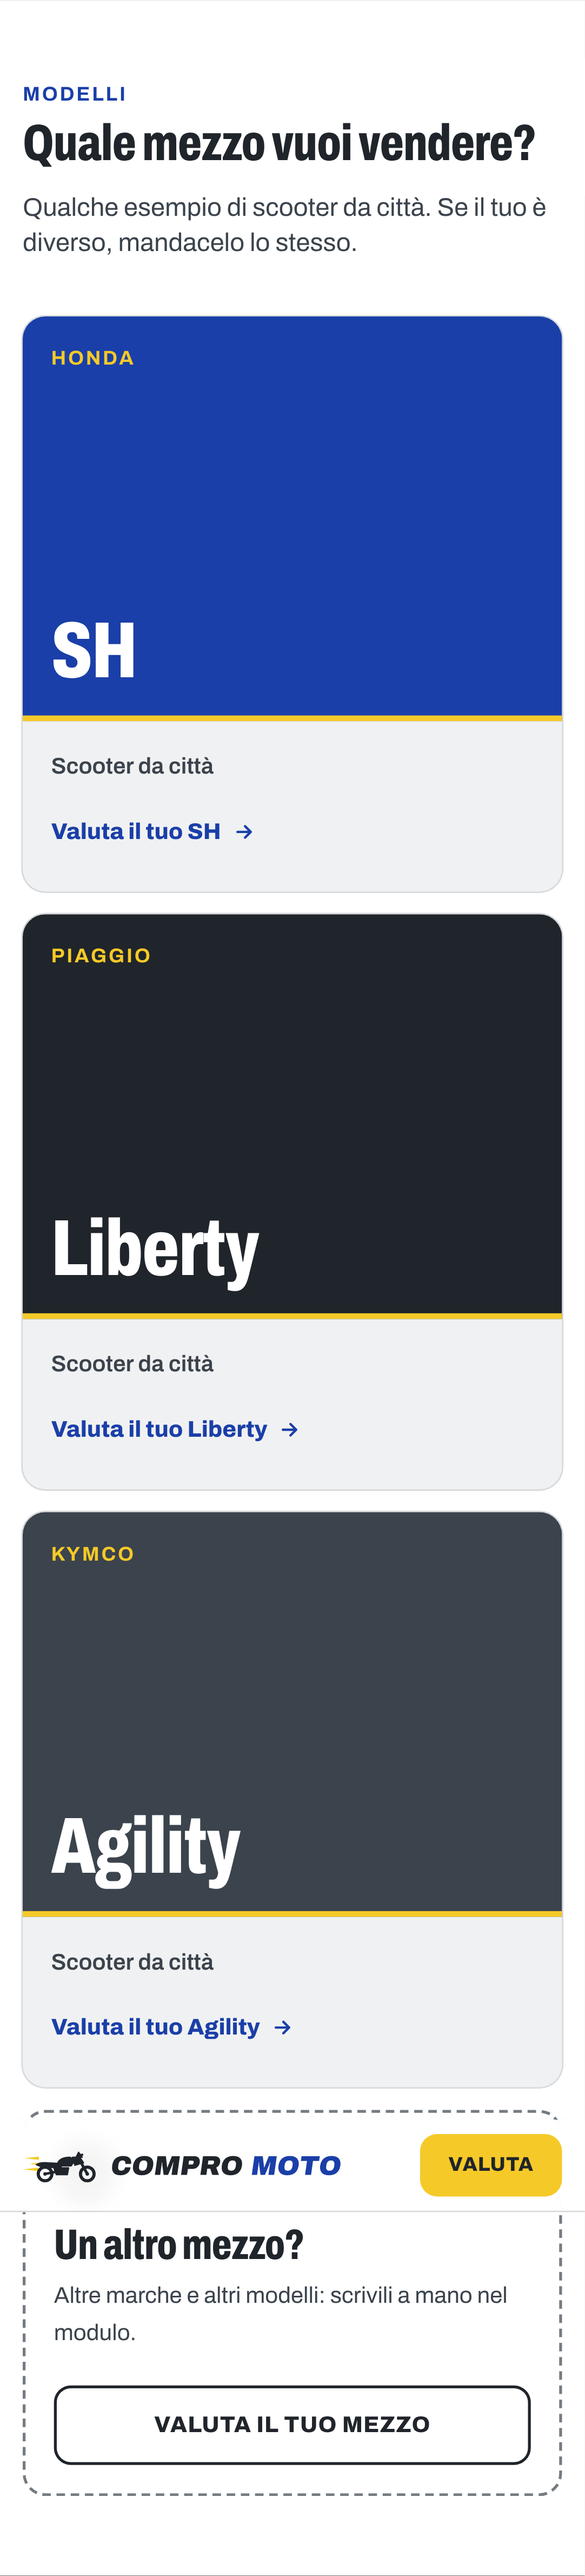
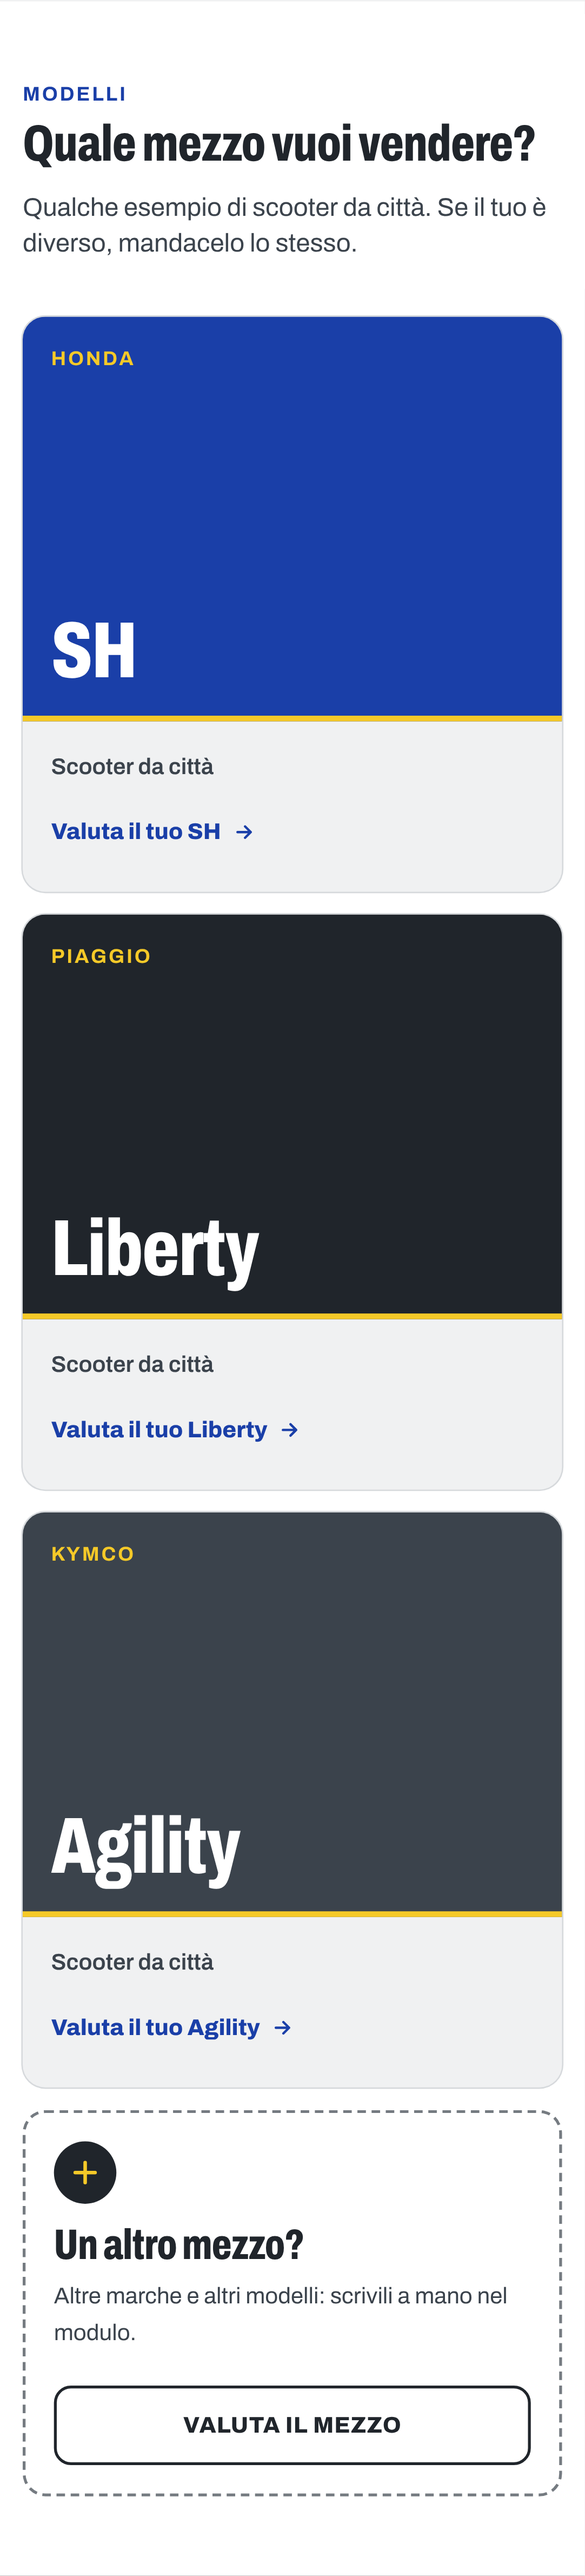
fix(ui): focus del campo km visibile su bianco, bottone «Altro mezzo» su una riga; anteprime 01-09 aggiornate
Claude-Session: https://claude.ai/code/session_01RTZ9kDdjzDvBtAfBBartpB

diff --git a/src/app/page.tsx b/src/app/page.tsx
@@ -244,8 +244,8 @@ export default function Home() {
                     Altre marche e altri modelli: scrivili a mano nel modulo.
                   </p>
                 </div>
-                <TrackedLink href="/valuta" event="cta_click" label="altro-mezzo" className={`${btnOutline} mt-6 w-full`}>
-                  Valuta il tuo mezzo
+                <TrackedLink href="/valuta" event="cta_click" label="altro-mezzo" className={`${btnOutline} mt-6 w-full px-4 text-center`}>
+                  Valuta il mezzo
                 </TrackedLink>
               </li>
             </ul>

diff --git a/src/modules/funnel/steps/KmStep.tsx b/src/modules/funnel/steps/KmStep.tsx
@@ -29,7 +29,7 @@ export function KmStep({
       </label>
       <div
         className={`relative mx-auto flex w-full max-w-md cursor-text items-stretch gap-1.5 rounded-2xl bg-asphalt p-3 transition-shadow sm:gap-2 sm:p-4 ${
-          focused ? "ring-4 ring-signal" : ""
+          focused ? "ring-4 ring-plate" : ""
         } ${error ? "ring-4 ring-danger" : ""}`}
         onClick={() => inputRef.current?.focus()}
       >

diff --git a/docs/anteprime/README.md b/docs/anteprime/README.md
@@ -3,7 +3,7 @@
 Schermate generate dalla **build di produzione locale** (database e storage temporanei, nessun dato reale, sito non
 pubblicato). Telefono simulato: Pixel 7 (412 px); desktop 1280 x 800.
 
-Tutte le schermate (01–09) documentano la stessa versione: miglioramento visivo (fascia vantaggi, gerarchia titoli, CTA sulle card) e correzioni di contrasto (bordi dei campi, cifre segnaposto del chilometraggio). Il sito **non usa fotografie né illustrazioni**: dove andranno le foto c'è una composizione di colori e tipografia.
+Tutte le schermate (01–09) documentano la stessa versione: miglioramento visivo (fascia vantaggi, gerarchia titoli, CTA sulle card) e correzioni di contrasto (bordi dei campi, cifre segnaposto del chilometraggio). Le schermate a pagina intera sono scattate senza la barra fissa in basso, che altrimenti comparirebbe a metà immagine. Il sito **non usa fotografie né illustrazioni**: dove andranno le foto c'è una composizione di colori e tipografia.
 Foto da procurare: [docs/IMMAGINI-DA-FORNIRE.md](../IMMAGINI-DA-FORNIRE.md).
 
 | File | Cosa mostra |
